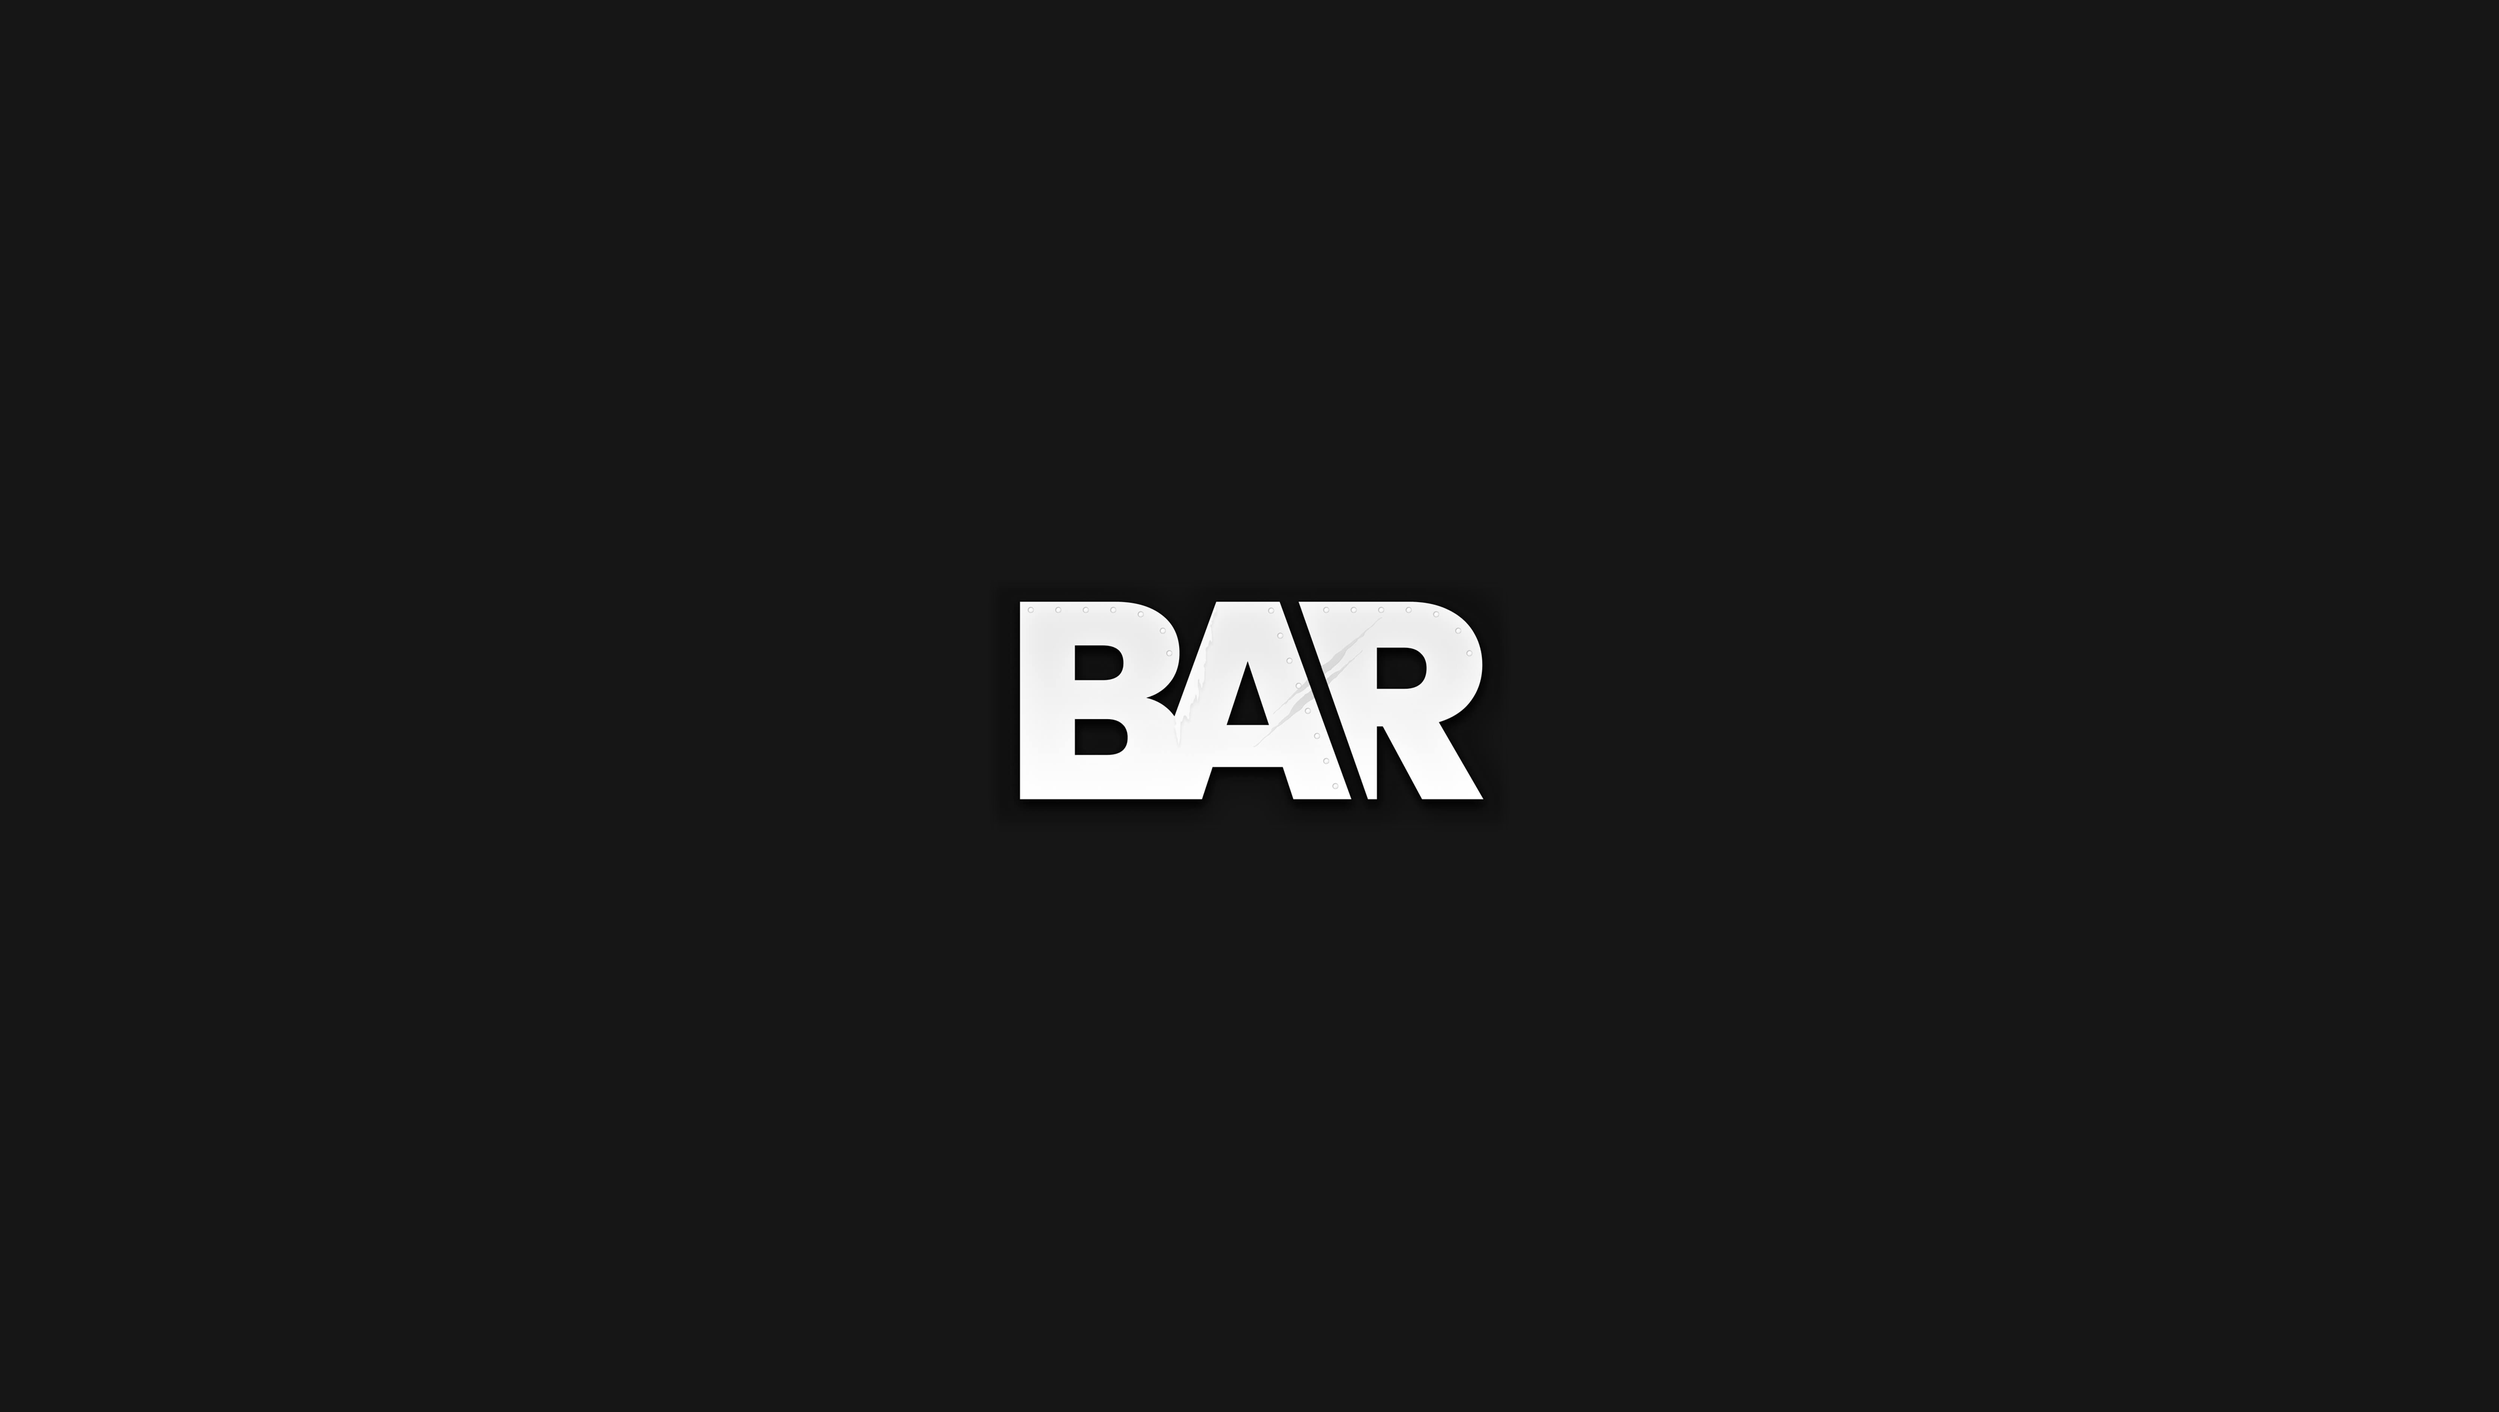
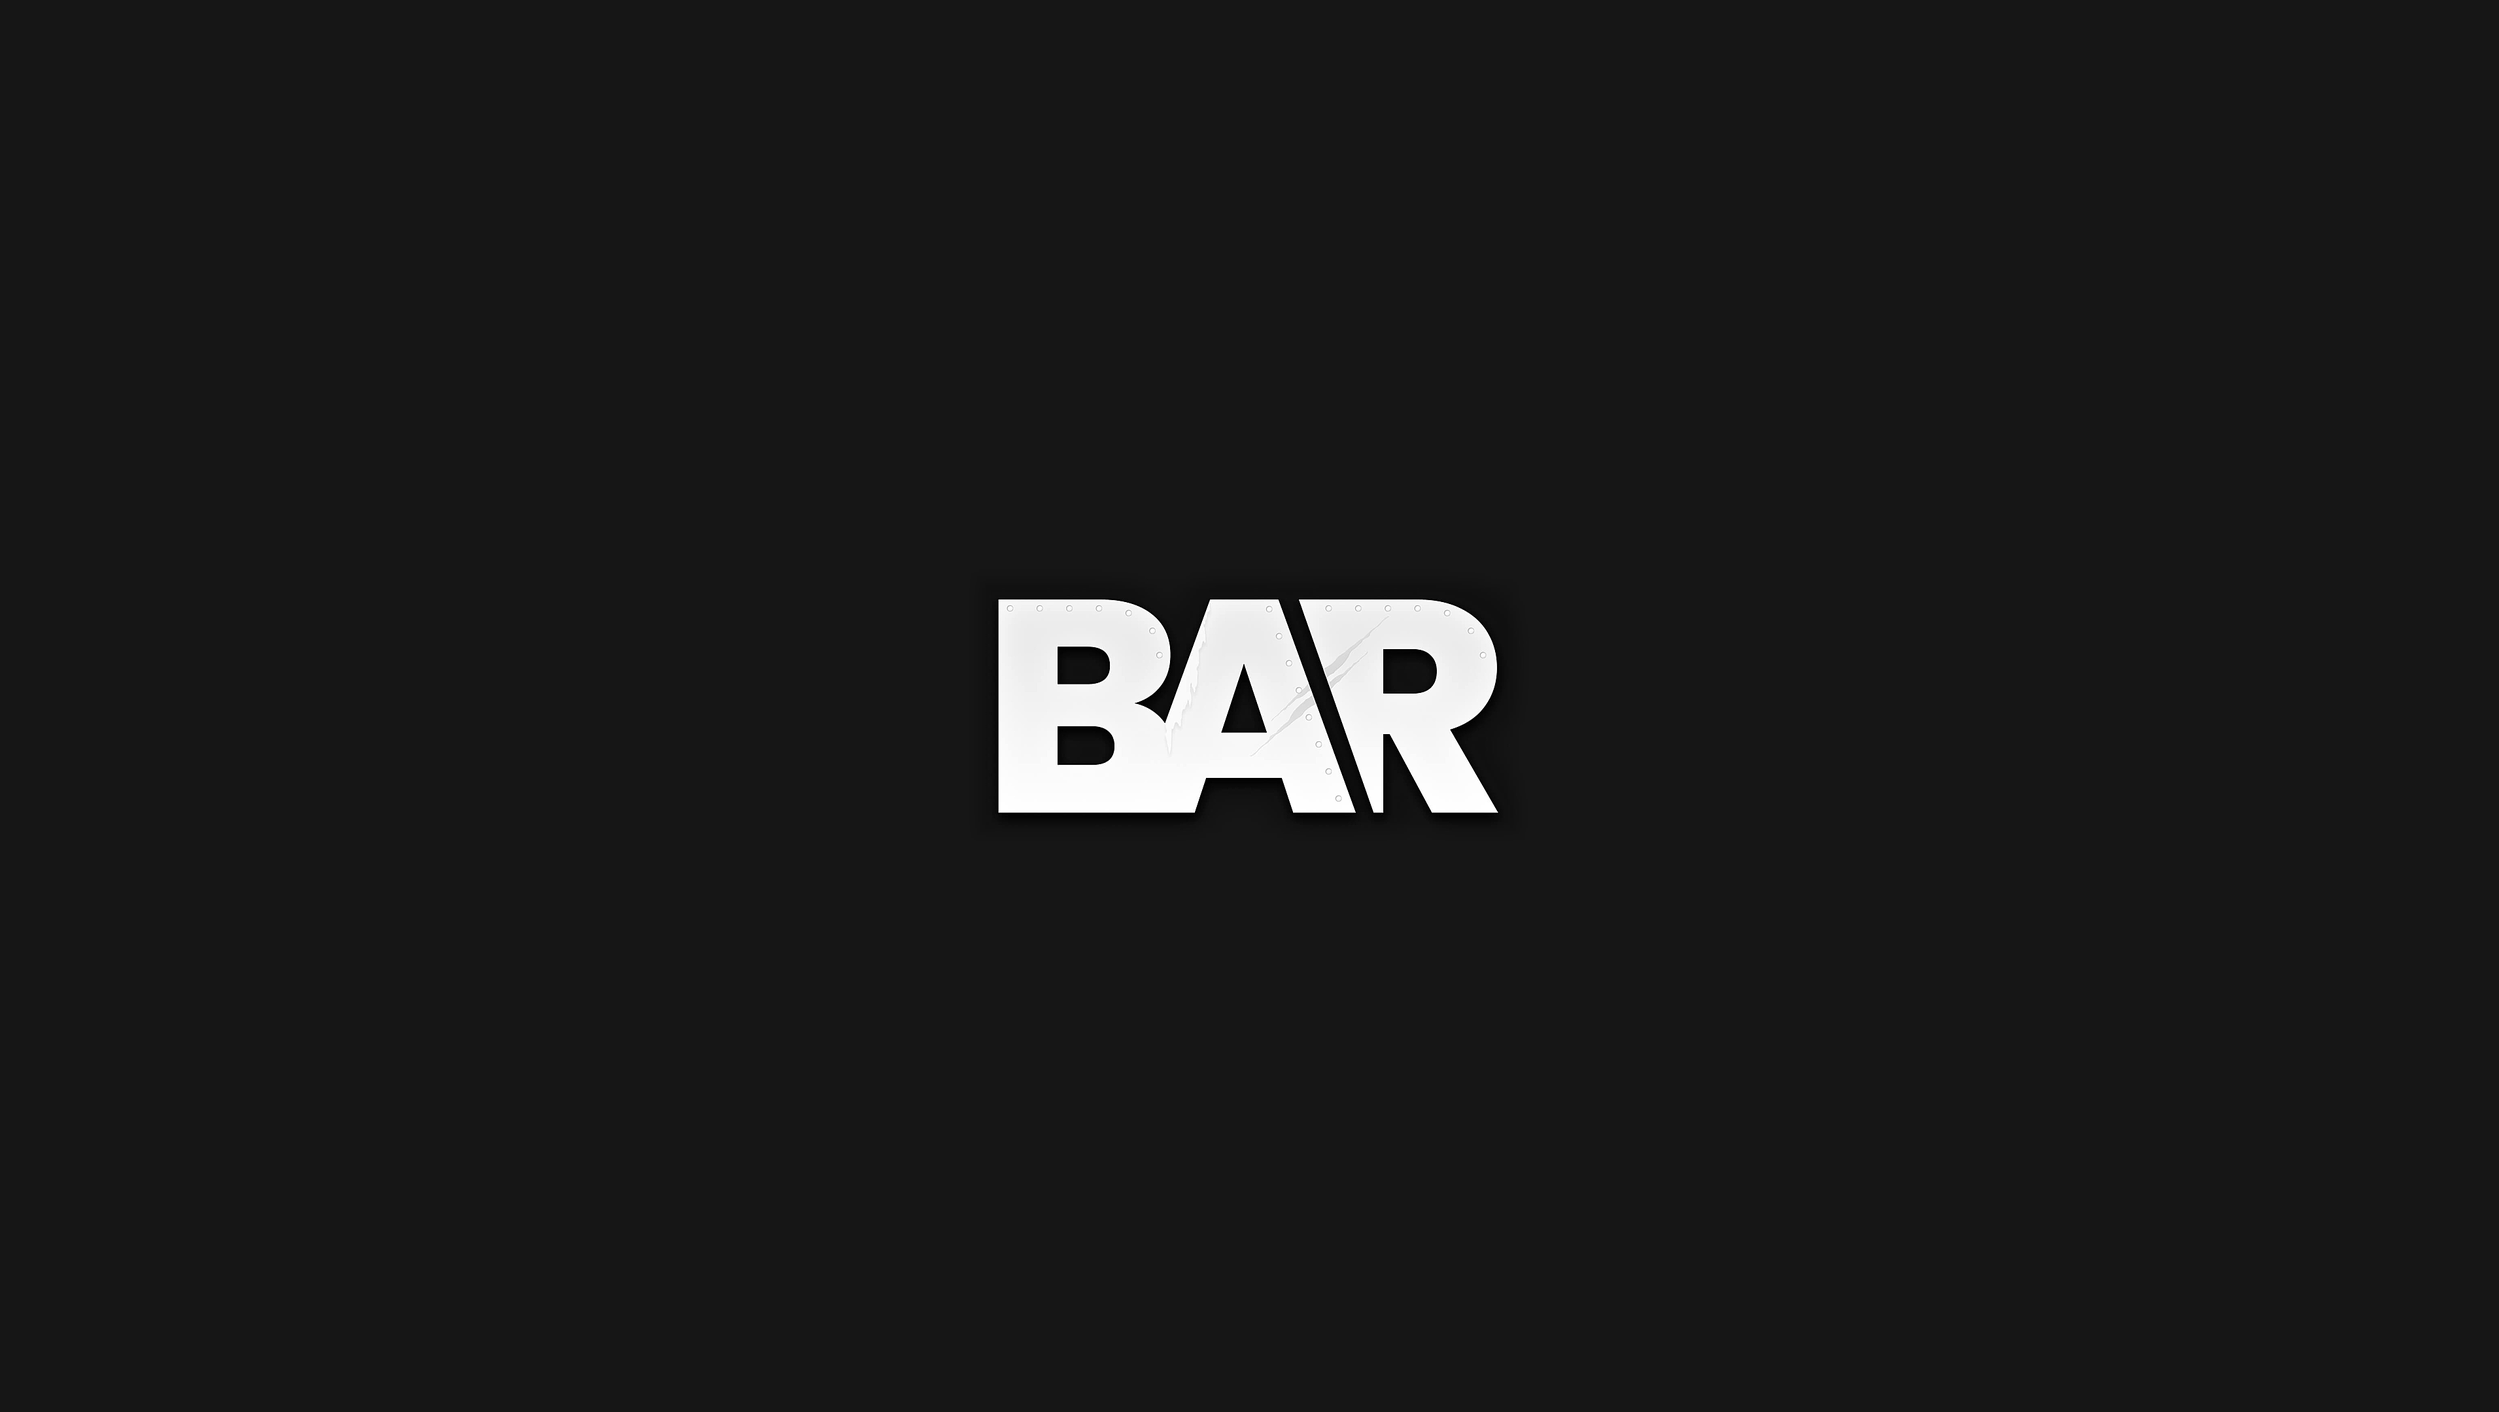
Upright: the join's pre-game screen fitted with Free memory; a sharper first picture; COMMANDER further out; ROTATE alone
Kailil, 2026-11-11. Joining a game hosted elsewhere, the engine's "Waiting for server response"
laid its lines from 60 % of the width on (cut off upright), and the app's loading state only began
at the loading screen, so no Free memory button. From "[CPreGame] using client IP" to the loading
screen (GameService.preGame) the app covers that screen but its version and GPL lines with the
same news wrapped to the screen and the button at the top; a timeout or the lobby gives it back.
The lobby's first picture upright is made again by tools/make-loadscreen-upright.ps1 (new): the
word Lanczos-scaled and pre-sharpened for the phone's two scalings, 151 KB. COMMANDER's camera 30 %
further out; ROTATE without "90°". Dev phone: a client script to an unanswered address showed the
fitted screen until the timeout; the splash's rivets crisp; COMMANDER and the PLACE panel seen.

Changed region(s): [[0.3737, 0.4032, 0.6229, 0.5894]]

diff --git a/app/src/main/java/com/underarmcape/bardroid/GameActivity.java b/app/src/main/java/com/underarmcape/bardroid/GameActivity.java
@@ -381,6 +381,7 @@ public class GameActivity extends MainActivity {
     private final Runnable catchupCheck = new Runnable() {
         @Override public void run() {
             updateCatchup();
+            updatePreGame();
             updateFreeMemory();
             updateLoadTip();
             updateLoadBar();
@@ -616,11 +617,58 @@ public class GameActivity extends MainActivity {
         }
     }
 
+    // The engine's pre-game screen upright, joining a game hosted elsewhere (Kailil, 2026-11-11, with a screenshot of
+    // "Waiting for server response": "the loading screen there is not mobile formatted. Also free memory button should be
+    // here too"): the engine lays it out for a wide screen, its lines from 60 % of the width on cut off upright. This
+    // covers it, all but its last two lines (the engine's version and its GPL notice, which fit), with the same news
+    // wrapped to the screen: what it waits for and the server's address (GameService.preGameHost), the Free memory
+    // button over it.
+    private android.widget.TextView preGameView;
+
+    private void updatePreGame() {
+        View root = getWindow().getDecorView();
+        int h = root.getHeight();
+        boolean upright = h > root.getWidth() * 1.05f;
+        boolean show = upright && GameService.preGame() && !isInPictureInPictureMode()
+                && (touch == null || !touch.gameWidgetRunning());
+        if (show && preGameView == null && h > 0) {
+            android.widget.TextView v = new android.widget.TextView(this);
+            float dp = getResources().getDisplayMetrics().density;
+            v.setBackgroundColor(0xFF000000);   // (the engine's own black: its words under it gone)
+            v.setTextColor(0xFFFFFFFF);
+            v.setGravity(android.view.Gravity.CENTER);
+            v.setPadding((int) (28 * dp), 0, (int) (28 * dp), 0);
+            v.setClickable(false);   // (touches reach the game under it, as the catch-up screen's)
+            android.widget.FrameLayout.LayoutParams lp = new android.widget.FrameLayout.LayoutParams(
+                    android.view.ViewGroup.LayoutParams.MATCH_PARENT, (int) (h * 0.9f), android.view.Gravity.TOP);
+            addContentView(v, lp);
+            preGameView = v;
+            if (freeMemory != null) freeMemory.bringToFront();
+            Log.i("app", "pre-game: the engine's waiting screen wrapped to the upright screen");
+        }
+        if (preGameView == null) return;
+        if ((preGameView.getVisibility() == View.VISIBLE) != show) preGameView.setVisibility(show ? View.VISIBLE : View.GONE);
+        if (!show) return;
+        String title = GameService.preGameData() ? "Checking the game's files" : "Waiting for the server";
+        String host = GameService.preGameHost();
+        String body = GameService.preGameData() ? "The game loads next" : "Connecting to " + host;
+        String text = title + "\n\n" + body;
+        if (text.contentEquals(preGameView.getText())) return;
+        android.text.SpannableString s = new android.text.SpannableString(text);
+        s.setSpan(new android.text.style.StyleSpan(android.graphics.Typeface.BOLD), 0, title.length(), 0);
+        s.setSpan(new android.text.style.RelativeSizeSpan(1.6f), 0, title.length(), 0);
+        s.setSpan(new android.text.style.ForegroundColorSpan(0xFFBBBBBB), title.length(), text.length(), 0);
+        preGameView.setTextSize(android.util.TypedValue.COMPLEX_UNIT_SP, 16);
+        preGameView.setText(s);
+    }
+
     private void updateFreeMemory() {
         if (freeMemory == null) return;
         // (and gone once the app's game widget runs: BAR's own interface is up then, the faction picker, "Game starting
         // in 3...", while the engine still loads the AIs; the button lay over them for those seconds, dev phone 2026-11-08)
-        boolean show = GameService.loading() && !isInPictureInPictureMode() && (touch == null || !touch.gameWidgetRunning())
+        // (and on the pre-game screen while a game hosted elsewhere is joined, Kailil 2026-11-11: updatePreGame)
+        boolean show = (GameService.loading() || GameService.preGame()) && !isInPictureInPictureMode()
+                && (touch == null || !touch.gameWidgetRunning())
                 && (catchupView == null || catchupView.getVisibility() != View.VISIBLE);
         if ((freeMemory.getVisibility() == View.VISIBLE) != show) freeMemory.setVisibility(show ? View.VISIBLE : View.GONE);
         if (show) placeFreeMemory();   // (the low memory line comes up after it, and moves it down)

diff --git a/app/src/main/java/com/underarmcape/bardroid/GameService.java b/app/src/main/java/com/underarmcape/bardroid/GameService.java
@@ -98,7 +98,43 @@ public class GameService extends Service {
         }
     }
 
+    /**
+     * Joining a game hosted elsewhere: the engine's pre-game screen, "Waiting for server response" (Kailil, 2026-11-11,
+     * an online game joined upright: "the loading screen there is not mobile formatted. Also free memory button should be
+     * here too"), from the engine's "[CPreGame] using server IP" (not this phone's own server: a local game's pre-game
+     * is over in a moment) to its loading screen. The server's address; whether the game's data has come (then the
+     * engine checks its files and loads).
+     */
+    public static boolean preGame() { return preGameHost != null; }
+    public static String preGameHost() { String h = preGameHost; return h == null ? "" : h; }
+    public static boolean preGameData() { return preGameData; }
+    private static volatile String preGameHost;
+    private static volatile boolean preGameData;
+    // (a join: "[CPreGame] using client IP <the server> and port <its port>"; the phone's own game: "using server IP
+    // 127.0.0.1 and port 0"; dev phone, a client script at 10.255.255.1)
+    private static final String[] PREGAME_LINES = { "[CPreGame] using client IP ", "[CPreGame] using server IP " };
+
+    /** The server an engine line names ("[CPreGame] using client IP 1.2.3.4 and port 8452"): "1.2.3.4:8452"; null:
+     *  no such line, or the phone's own server. */
+    static String preGameServer(String line) {
+        int at = -1;
+        String key = null;
+        for (String k : PREGAME_LINES) {
+            at = line.indexOf(k);
+            if (at >= 0) { key = k; break; }
+        }
+        if (key == null) return null;
+        String[] w = line.substring(at + key.length()).trim().split("\\s+");
+        String ip = w.length > 0 ? w[0] : "";
+        if (ip.isEmpty() || ip.startsWith("127.") || ip.equals("::1") || ip.equalsIgnoreCase("localhost")
+                || ip.equals("0.0.0.0")) return null;
+        String port = w.length >= 4 && w[1].equals("and") && w[2].equals("port") ? w[3] : "";
+        return port.isEmpty() || port.equals("0") ? ip : ip + ":" + port;
+    }
+
     private static void loadReset(boolean screen) {
+        preGameHost = null;
+        preGameData = false;
         loadScreen = screen;
         loadMessage = "";
         loadLow = loadHigh = 0f;
@@ -350,6 +386,20 @@ public class GameService extends Service {
                                 loading = false;
                                 Log.i("svc", "loaded (the loading screen's Free memory button goes)");
                             }
+                            // (joining a game hosted elsewhere: the pre-game screen, GameActivity's upright version of it)
+                            String server = preGameServer(line);
+                            if (server != null) {
+                                preGameHost = server;
+                                preGameData = false;
+                                Log.i("svc", "joining a game hosted elsewhere: the pre-game screen until it loads");
+                            } else if (preGameHost != null && line.contains("[PreGame::GameDataReceived]")) {
+                                preGameData = true;
+                            } else if (preGameHost != null && (line.contains("BAR Droid lobby touch")
+                                    || line.contains("server connection timeout"))) {
+                                // (the join failed: back in the lobby, or the engine's own word on it shows)
+                                preGameHost = null;
+                                Log.i("svc", "the join ended before the game loaded: the engine's screen again");
+                            }
                             // (a game the lobby starts loads in the same engine: loading again, the Free memory button,
                             // the upright tip and bar with it; before, only the engine's first load had them, Kailil,
                             // 2026-11-11: "Allow free memory button in this loading menu too")
@@ -373,6 +423,7 @@ public class GameService extends Service {
                         try { rc = engine.waitFor(); } finally { perf.stop(); }
                     } finally {
                         loading = false;
+                        preGameHost = null;
                         if (audio != null) audio.stop();
                     }
                     Log.i("svc", "engine exited (" + rc + ")");   // (tools/phone-bench.ps1, phone-memory.ps1 read this line)

diff --git a/docs/DELIVERY.md b/docs/DELIVERY.md
@@ -375,6 +375,27 @@ same, that stays the simpler way.
         on these buttons and shove them to the corner ... make the buttons the same size"): two squares of the X's size
         at the panel's bottom right, no padding round them, a hairline between them. Dev phone: ROTATE tapped, the
         building still picked, nothing placed; the X put it away; dock-phone-test ALL PASS.
+- [ ] **Kailil's notes, 2026-11-11 ~13:10** (with screenshots of a spectated online game, its join, the home grid, the
+      lobby's first picture), in order:
+      - [x] **ROTATE without "90°"** ("90 degrees is the only rotate in the game so its redundant"): the word alone.
+      - [x] **COMMANDER 30 % further out** ("too zoomed in"): the camera at 1.3 times the comfortable distance.
+      - [x] **The join's pre-game screen upright, and Free memory on it**: the engine's "Waiting for server response"
+        lays its lines from 60 % of the width on, cut off upright, and the app's loading state began only at the loading
+        screen, so no button. From the engine's "[CPreGame] using client IP" (a game hosted elsewhere) to its loading
+        screen the app covers the engine's screen but its last two lines (the version and the GPL notice) with the same
+        news wrapped to the screen ("Waiting for the server", "Connecting to <address>", then "Checking the game's
+        files"), Free memory at the top; a join that times out, or back in the lobby, gives the engine's screen back.
+        Dev phone: a client script to an address nothing answers (dev-env.sh), the screen as above until the engine's
+        timeout.
+      - [x] **The lobby's first picture sharper** ("bar looks super low res ... keep the resolution and size down"):
+        made again by `tools/make-loadscreen-upright.ps1` from BAR's picture: the word scaled by Lanczos and
+        pre-sharpened (an unsharp mask) for the phone's two scalings on the way (the lobby's X screen under the display,
+        then SGSR), the same size on the screen, 151 KB (was 127 KB). Dev phone: rivets and scratch crisp.
+      - [ ] **Spectating in the dock**: the spectator's buttons "much too small"; the same dock as playing; BAR's
+        player list hidden and a team list in the dock (in the home grid's open place beside the pings); LAST PINGS
+        only, no PING.
+      - [ ] **A toggle that hides the dock**, a small button at the bottom brings it back.
+      - [ ] **The button for the home grid's open place** (beside PINGS): Kailil asked for help choosing.
 - [x] **The phone tests after the evening's changes** (2026-11-10 ~21:50, dev phone; and 11-11 ~00:30 on the build
       with the lobby pointer patch, the icon's task and the updater's retry: fp-save-test, pad-test -Chat, dock-phone-test,
       lobby-phone-test all pass. The start view looked high in screenshots: measured, the start spot 190 px above the
